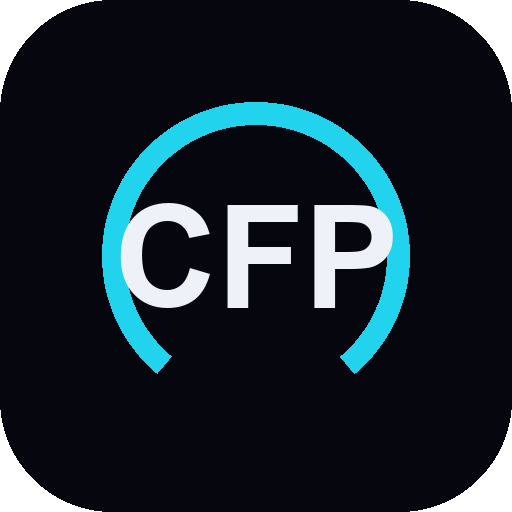
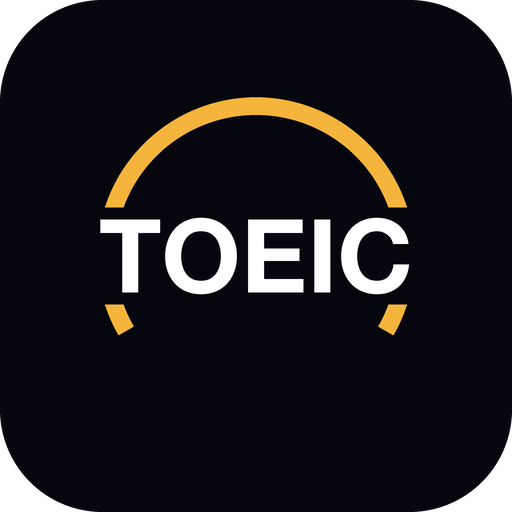
fix: TOEICアプリのアイコンをCFPの流用からTOEIC用に差し替え（SWの版をv2へ）
Claude-Session: https://claude.ai/code/session_0142fV97gT1MYBfsMsZZJSjq

diff --git a/certifications/TOEIC/quiz/sw.js b/certifications/TOEIC/quiz/sw.js
@@ -1,7 +1,7 @@
 /* TOEIC学習アプリ Service Worker
    - 本体・data.js: ネット優先→失敗時キャッシュ
    - 音声(audio/): 再生時にキャッシュ。Rangeリクエスト(Safari等)はキャッシュ済み全体から切り出して返す */
-const VERSION = 'toeic-quiz-v1';
+const VERSION = 'toeic-quiz-v2';
 const CORE = ['./index.html','./manifest.webmanifest','./data/data.js','./icon-192.png','./icon-512.png','./icon-maskable-512.png','./apple-touch-icon.png'];
 
 self.addEventListener('install', e => {
